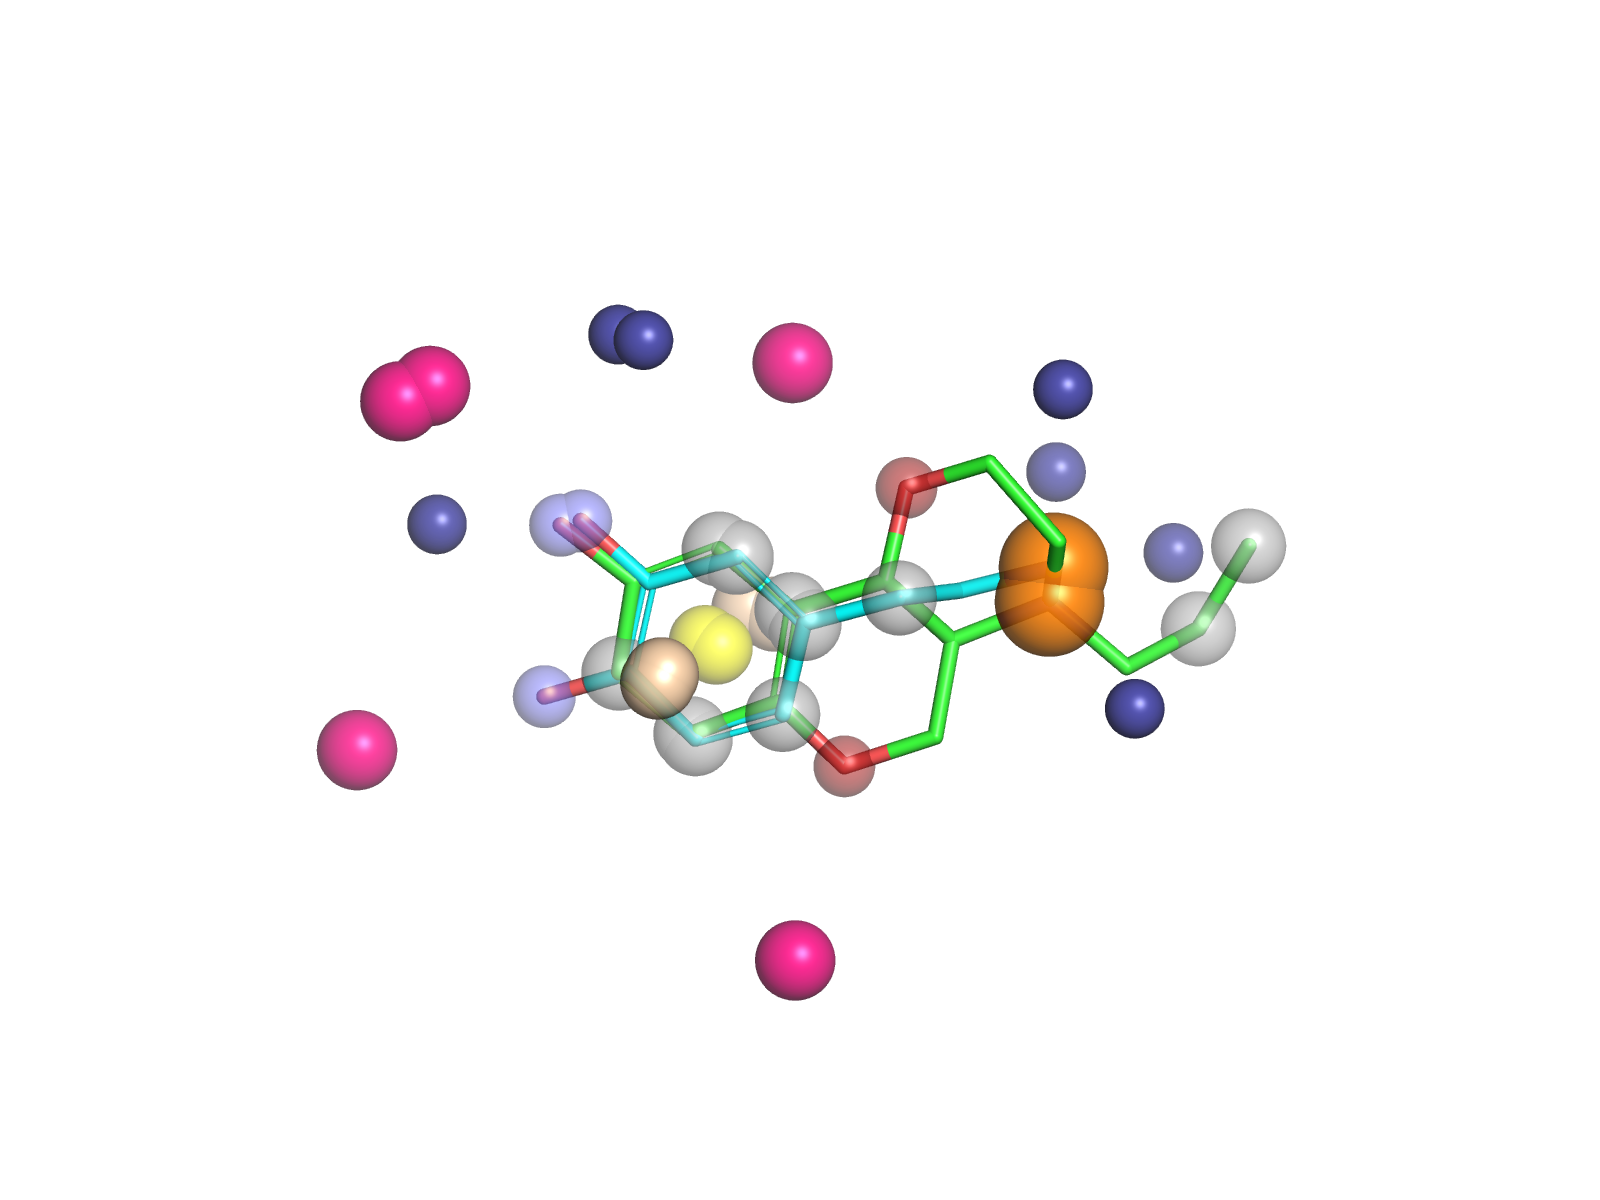
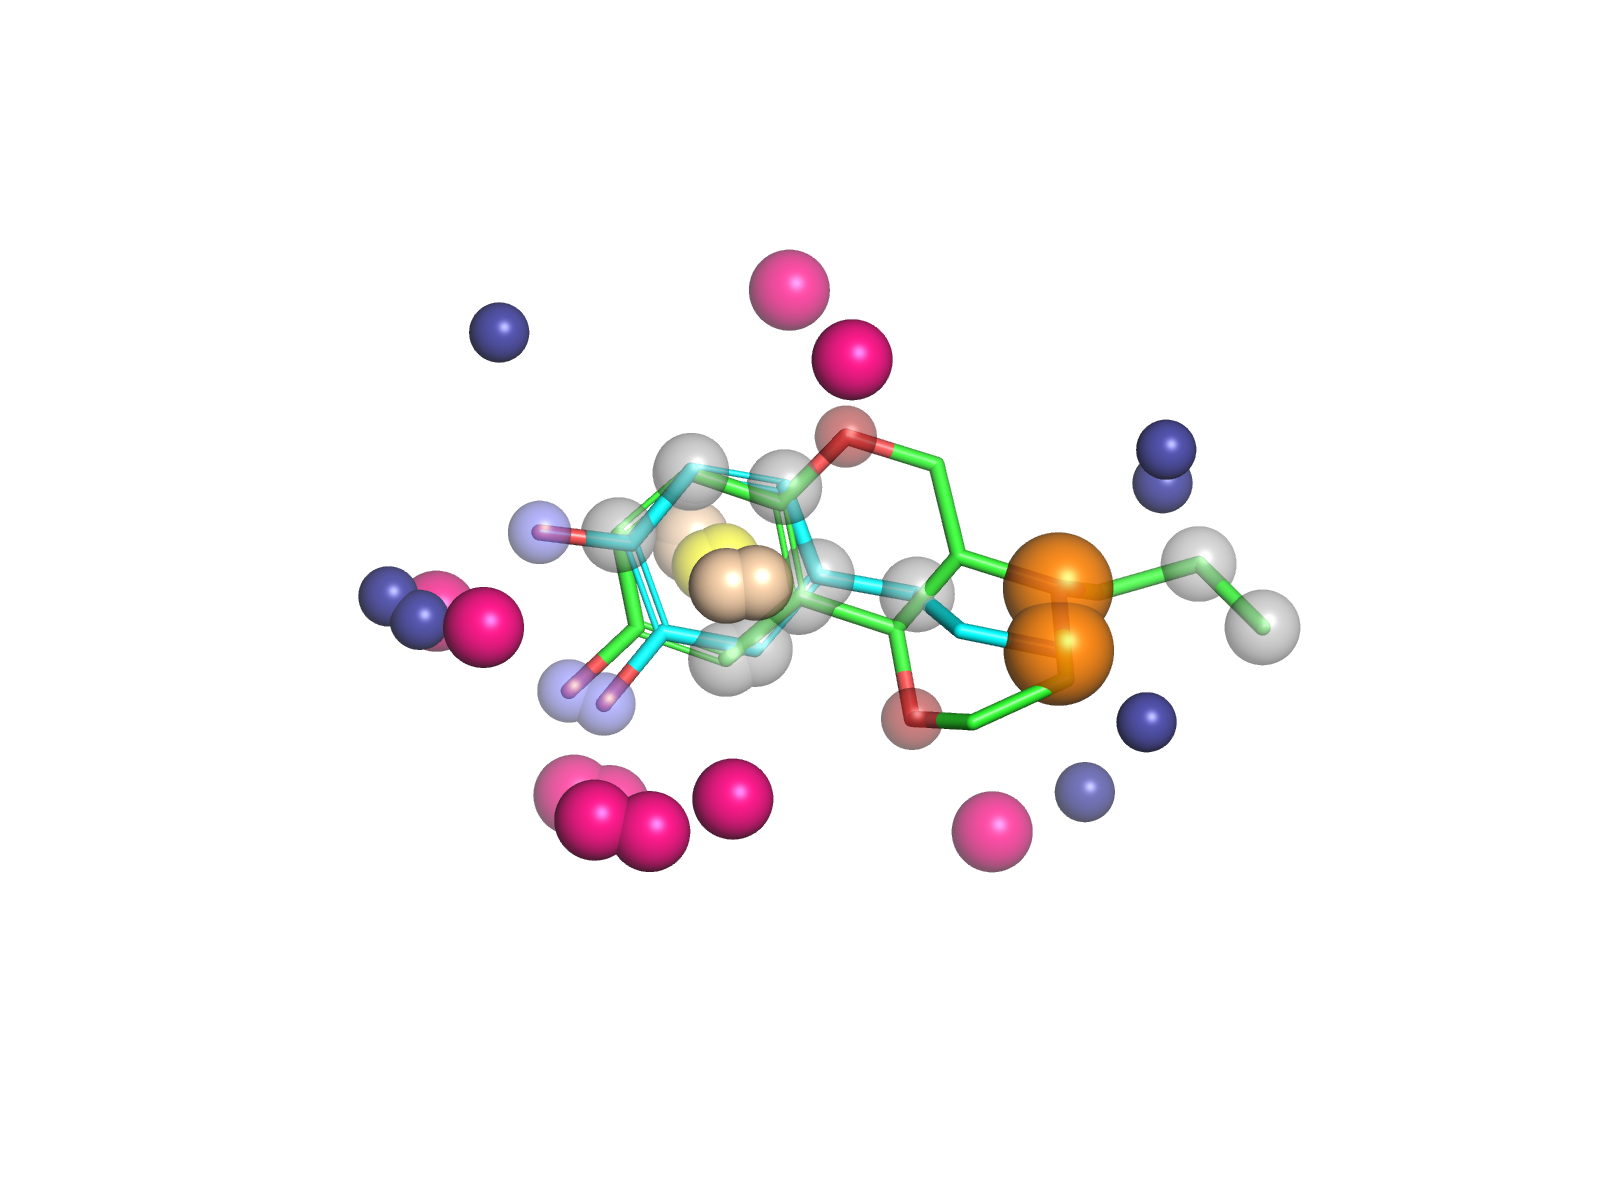
Fix acceptor projected-point geometry (lone-pair directions)
The acceptor points were placed along (O - mean(neighbours)), i.e. along
the C-O bond axis / C-O-C bisector, leaving them coplanar with the
substituents - wrong for a lone pair.

_acceptor_lone_pairs now uses all neighbours incl. explicit H and emits:
 - two tetrahedral lone pairs straddling the X-A-Y plane (out of plane by
   the tetrahedral half-angle) for hydroxyl / ether O
 - two sp2 lone pairs at +/-120 deg from the A=X bond for carbonyl O / nitrile N
Catechol OH lone pairs now sit 16-67 deg out of the ring plane.

Scores, README table and renders updated.

Claude-Session: https://claude.ai/code/session_01YS3ZBNuU1N7kzEmFAYq3J1

diff --git a/example/dopamine_pd128907/projected_pharmacophore.py b/example/dopamine_pd128907/projected_pharmacophore.py
@@ -6,8 +6,11 @@ This generator adds ROCS-style **projected points**:
 
   * Donor    -> one point `donor_dist` A out along each D-H bond
                (roughly where the acceptor would sit)
-  * Acceptor -> one point `acceptor_dist` A out along the mean lone-pair
-               direction (away from the bonded heavy atoms)
+  * Acceptor -> points `acceptor_dist` A out along the lone-pair directions
+               (see _acceptor_lone_pairs): two tetrahedral lone pairs for
+               hydroxyl / ether O (out of the C-O-C plane, NOT coplanar with
+               the substituents), two sp2 lone pairs at +/-120 deg for a
+               carbonyl O / nitrile N
   * Aromatic -> two points `ring_dist` A above / below the ring plane
                along the ring normal
 
@@ -37,6 +40,58 @@ from roshambo2.pharmacophore import RDKitPharmacophoreGenerator
 
 _BASE = ("Donor", "Acceptor", "PosIonizable", "NegIonizable", "Aromatic", "Hydrophobe")
 _PROJ = ("DonorProj", "AcceptorProj", "AromaticProj")
+
+_TET_HALF = np.deg2rad(54.75)   # half the tetrahedral angle (109.47/2)
+
+
+def _unit(v):
+    n = np.linalg.norm(v)
+    return v / n if n > 1e-6 else None
+
+
+def _rotate(v, axis, ang):
+    """Rodrigues rotation of v about unit `axis` by `ang` radians."""
+    c, s = np.cos(ang), np.sin(ang)
+    return v * c + np.cross(axis, v) * s + axis * np.dot(axis, v) * (1 - c)
+
+
+def _acceptor_lone_pairs(a, xyz):
+    """Unit vectors pointing from acceptor atom `a` along its lone pairs.
+
+    Uses *all* neighbours (incl. explicit H) so the geometry is right for
+    hydroxyl / ether / carbonyl oxygens and imine / aromatic nitrogens:
+      - 2+ neighbours (sp3 O, ether, hydroxyl): two lone pairs straddling the
+        plane that bisects the X-A-Y angle, tilted out of the X-A-Y plane by
+        the tetrahedral half-angle -> NOT coplanar with the substituents.
+      - 1 neighbour (carbonyl O, nitrile N): two lone pairs at +/-120 deg from
+        the A=X bond, in the plane defined by X and its other substituents.
+    """
+    pa = xyz[a.GetIdx()]
+    us = [u for u in (_unit(xyz[nb.GetIdx()] - pa) for nb in a.GetNeighbors())
+          if u is not None]
+
+    if len(us) >= 2:
+        u1, u2 = us[0], us[1]
+        bis = _unit(-(u1 + u2))          # in-plane, opposite the bonds
+        perp = _unit(np.cross(u1, u2))   # normal to the X-A-Y plane
+        if bis is None or perp is None:
+            return []
+        return [_unit(bis * np.cos(_TET_HALF) + s * perp * np.sin(_TET_HALF))
+                for s in (+1.0, -1.0)]
+
+    if len(us) == 1:
+        u1 = us[0]
+        nb0 = a.GetNeighbors()[0]
+        refs = [xyz[x.GetIdx()] for x in nb0.GetNeighbors() if x.GetIdx() != a.GetIdx()]
+        if not refs:
+            return [(-u1)]              # nothing to define a plane -> straight out
+        w = _unit(np.mean(refs, axis=0) - xyz[nb0.GetIdx()])
+        axis = _unit(np.cross(u1, w if w is not None else u1 + np.array([1e-3, 0, 0])))
+        if axis is None:
+            return [(-u1)]
+        return [_rotate(-u1, axis, ang) for ang in (np.deg2rad(120), np.deg2rad(-120))]
+
+    return []
 
 
 class ProjectedPointPharmacophoreGenerator(RDKitPharmacophoreGenerator):
@@ -89,14 +144,10 @@ class ProjectedPointPharmacophoreGenerator(RDKitPharmacophoreGenerator):
             elif family == "Acceptor":
                 for ai in atom_ids:
                     a = mol.GetAtomWithIdx(int(ai))
-                    heavy = [xyz[nb.GetIdx()] for nb in a.GetNeighbors()
-                             if nb.GetAtomicNum() != 1]
-                    if not heavy:
-                        continue
-                    v = xyz[ai] - np.mean(heavy, axis=0)
-                    n = np.linalg.norm(v)
-                    if n > 1e-3:
-                        add(xyz[ai] + v / n * self.acceptor_dist, "AcceptorProj")
+                    for lp in _acceptor_lone_pairs(a, xyz):
+                        lp = _unit(lp)
+                        if lp is not None:
+                            add(xyz[ai] + lp * self.acceptor_dist, "AcceptorProj")
 
             elif family == "Aromatic":
                 ring = np.array([xyz[int(ai)] for ai in atom_ids])

diff --git a/example/dopamine_pd128907/README.md b/example/dopamine_pd128907/README.md
@@ -30,24 +30,25 @@ Hydrophobe `Br` grey · DonorProj `F` · AcceptorProj `I` · AromaticProj `B`.
 | colour model | shape | colour | combo |
 |---|---|---|---|
 | stock (1 pt/feature) | 0.633 | 0.500 | 0.566 |
-| base + projected pts | 0.639 | 0.411 | 0.525 |
-| projected pts only   | 0.606 | 0.377 | 0.492 |
+| base + projected pts | 0.656 | 0.360 | 0.508 |
+| projected pts only   | 0.503 | 0.512 | 0.507 |
 
-Projected points lower the colour Tanimoto because the two molecules only
-partly agree on feature *direction*, not just position.
+Projected points lower the *combined* colour Tanimoto because the two molecules
+only partly agree on feature *direction*, not just position — and "projected
+only" will trade shape for a much better directional colour match.
 
 ### Conformer count (`conf_scan.py`, base+projected model)
 
 | dopamine confs | PD128907 confs | shape | colour | combo |
 |---|---|---|---|---|
-| 1  | 20  | 0.634 | 0.355 | 0.494 |
-| 1  | 100 | 0.620 | 0.397 | 0.508 |
-| 25 | 100 | 0.639 | 0.411 | 0.525 |
-| 25 | 400 | 0.639 | 0.419 | 0.529 |
+| 1  | 20  | 0.625 | 0.337 | 0.481 |
+| 1  | 100 | 0.644 | 0.346 | 0.495 |
+| 25 | 100 | 0.656 | 0.360 | 0.508 |
+| 25 | 400 | 0.642 | 0.391 | 0.516 |
 
 PD128907 is rigid, so its dataset confs saturate by ~100. Dopamine is the
 flexible partner — sampling its query conformers (→25) is what actually moves
-the score. Plateau ~(25, 100); combo 0.49 → 0.53.
+the score. Plateau ~(25, 100).
 
 ## Note
 
